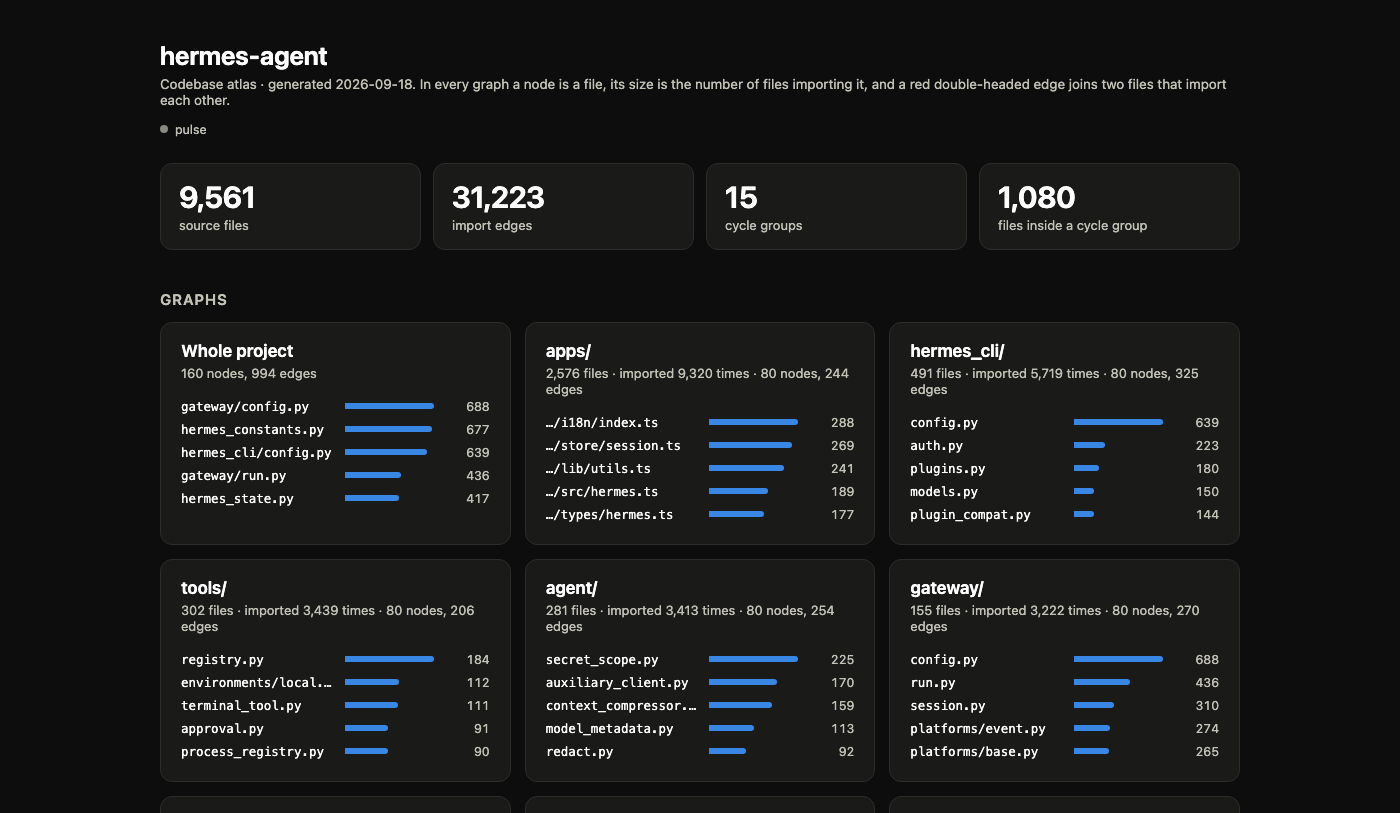
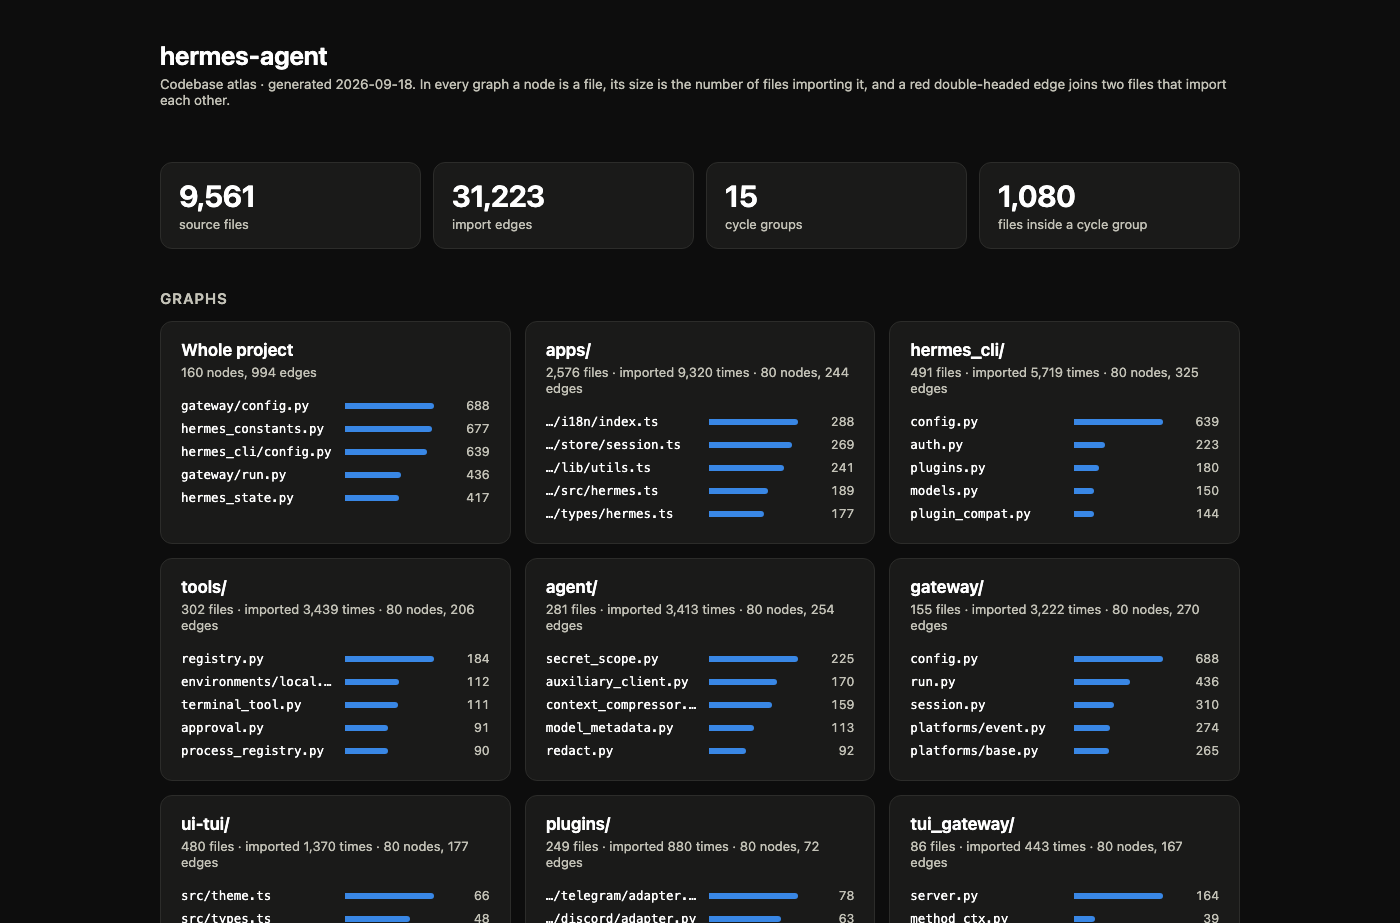
docs: show the atlas home page and a live pulse recording for hermes-agent

diff --git a/README.md b/README.md
@@ -1,5 +1,10 @@
-<img alt="Dependency graph of one package: node size is the number of importers, red edges join files that import each other" src="docs/graph.png" />
 # codebase-graph-mcp
+
+<img alt="Atlas home page for hermes-agent: project totals, a card per directory with its most imported files" src="docs/atlas.png" />
+
+<img alt="Live pulse on hermes-agent: files glow as their code runs and signals travel along the import edges" src="docs/pulse.gif" />
+
+*Example: [hermes-agent](https://github.com/NousResearch/hermes-agent), about 9,500 source files. Top: the atlas home page. Bottom: live pulse while its modules load.*
 
 An MCP server that builds a dependency graph of your codebase, enabling AI coding assistants to understand project structure and make safer changes.
 
@@ -236,6 +241,8 @@ src/runtime/config.py                                          5     12  0.42
 
 ### visualize_graph
 
+<img alt="Dependency graph of one package: node size is the number of importers, red edges join files that import each other" src="docs/graph.png" />
+
 Generates an interactive HTML graph and opens it in the browser.
 
 - **Size** of a node is the number of files importing it; label size follows, so hubs stay readable when zoomed out
@@ -265,8 +272,6 @@ visualize_graph(atlas=true, scope="apps/desktop/src", max_scopes=5, output="tmp/
 ```
 
 #### Atlas mode
-
-<img alt="Atlas index: project totals, a card per directory with its most imported files, hotspots and cycle groups" src="docs/atlas.png" />
 
 On a large project one graph is not enough, so `atlas=true` writes a folder (default `codebase_atlas/`):
 
@@ -308,8 +313,6 @@ src/actions (82 files)
 ```
 
 ## Live Pulse
-
-<img alt="Live pulse: executing files glow and signals travel along the import edges" src="docs/pulse.png" />
 
 The graph pages can show a running Python program: the files it is executing glow, signals travel along the import edges from caller to callee, and a file where a thread or an asyncio task is parked (network wait, sleep, lock) breathes slowly. On the atlas index the card of the directory that is executing lights up. A status line names the current file even when it is not among the nodes shown.
 
